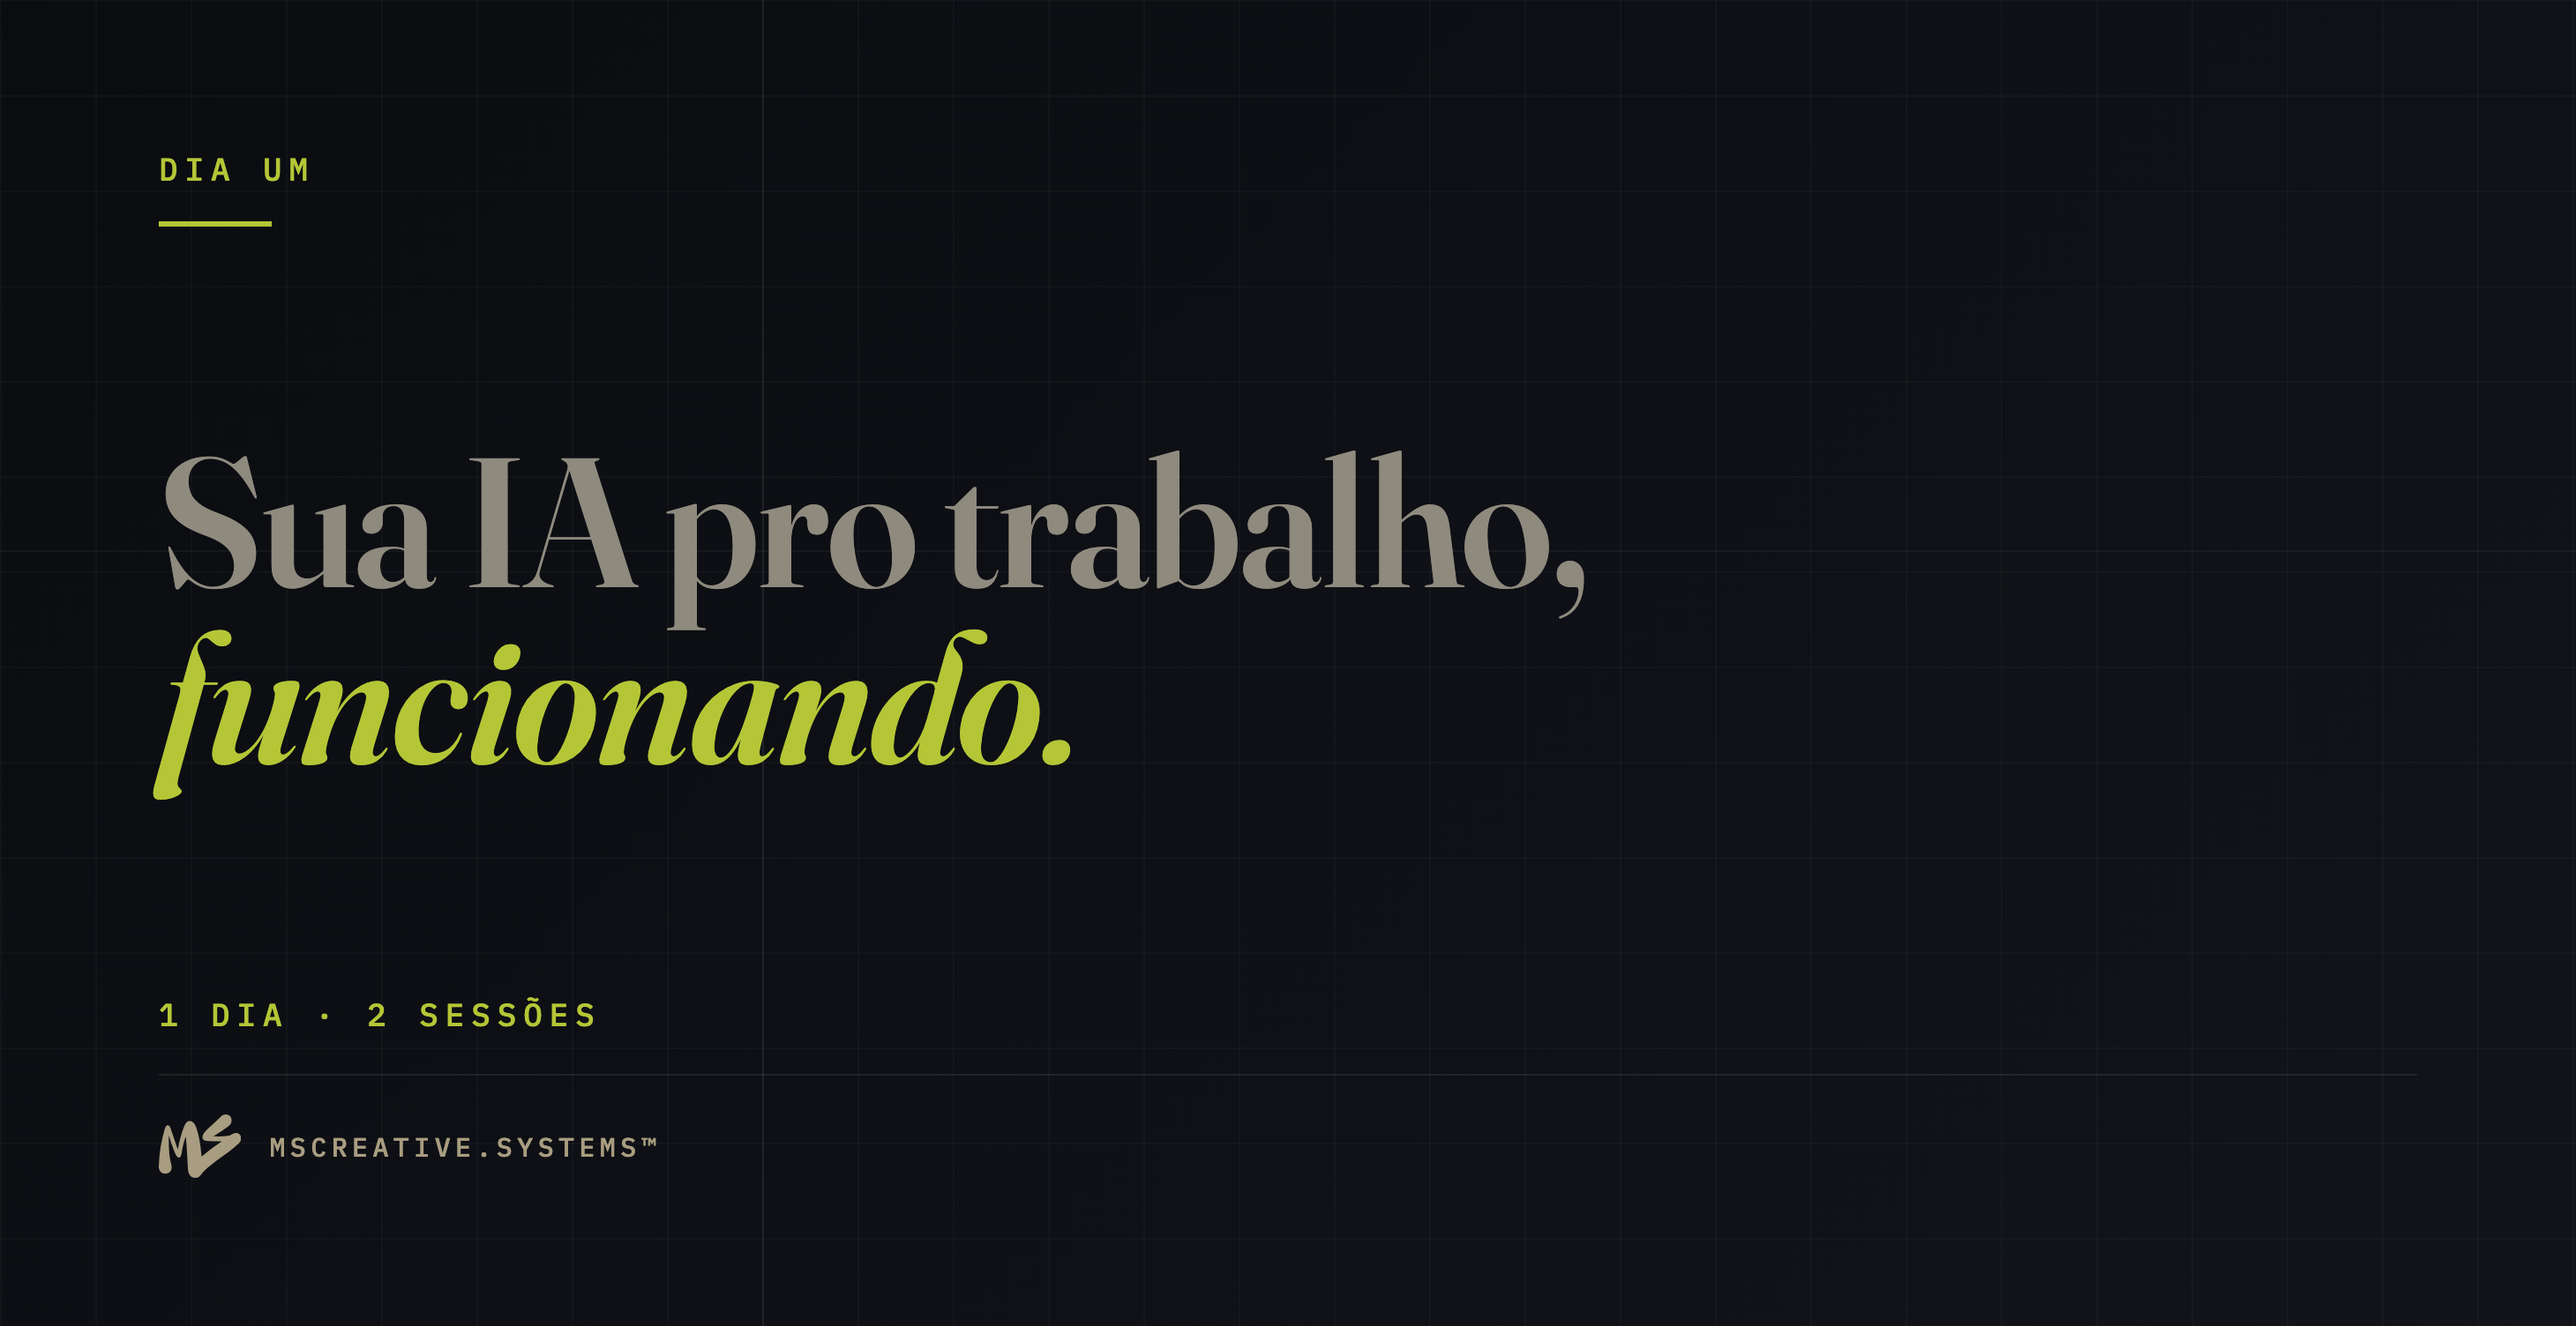
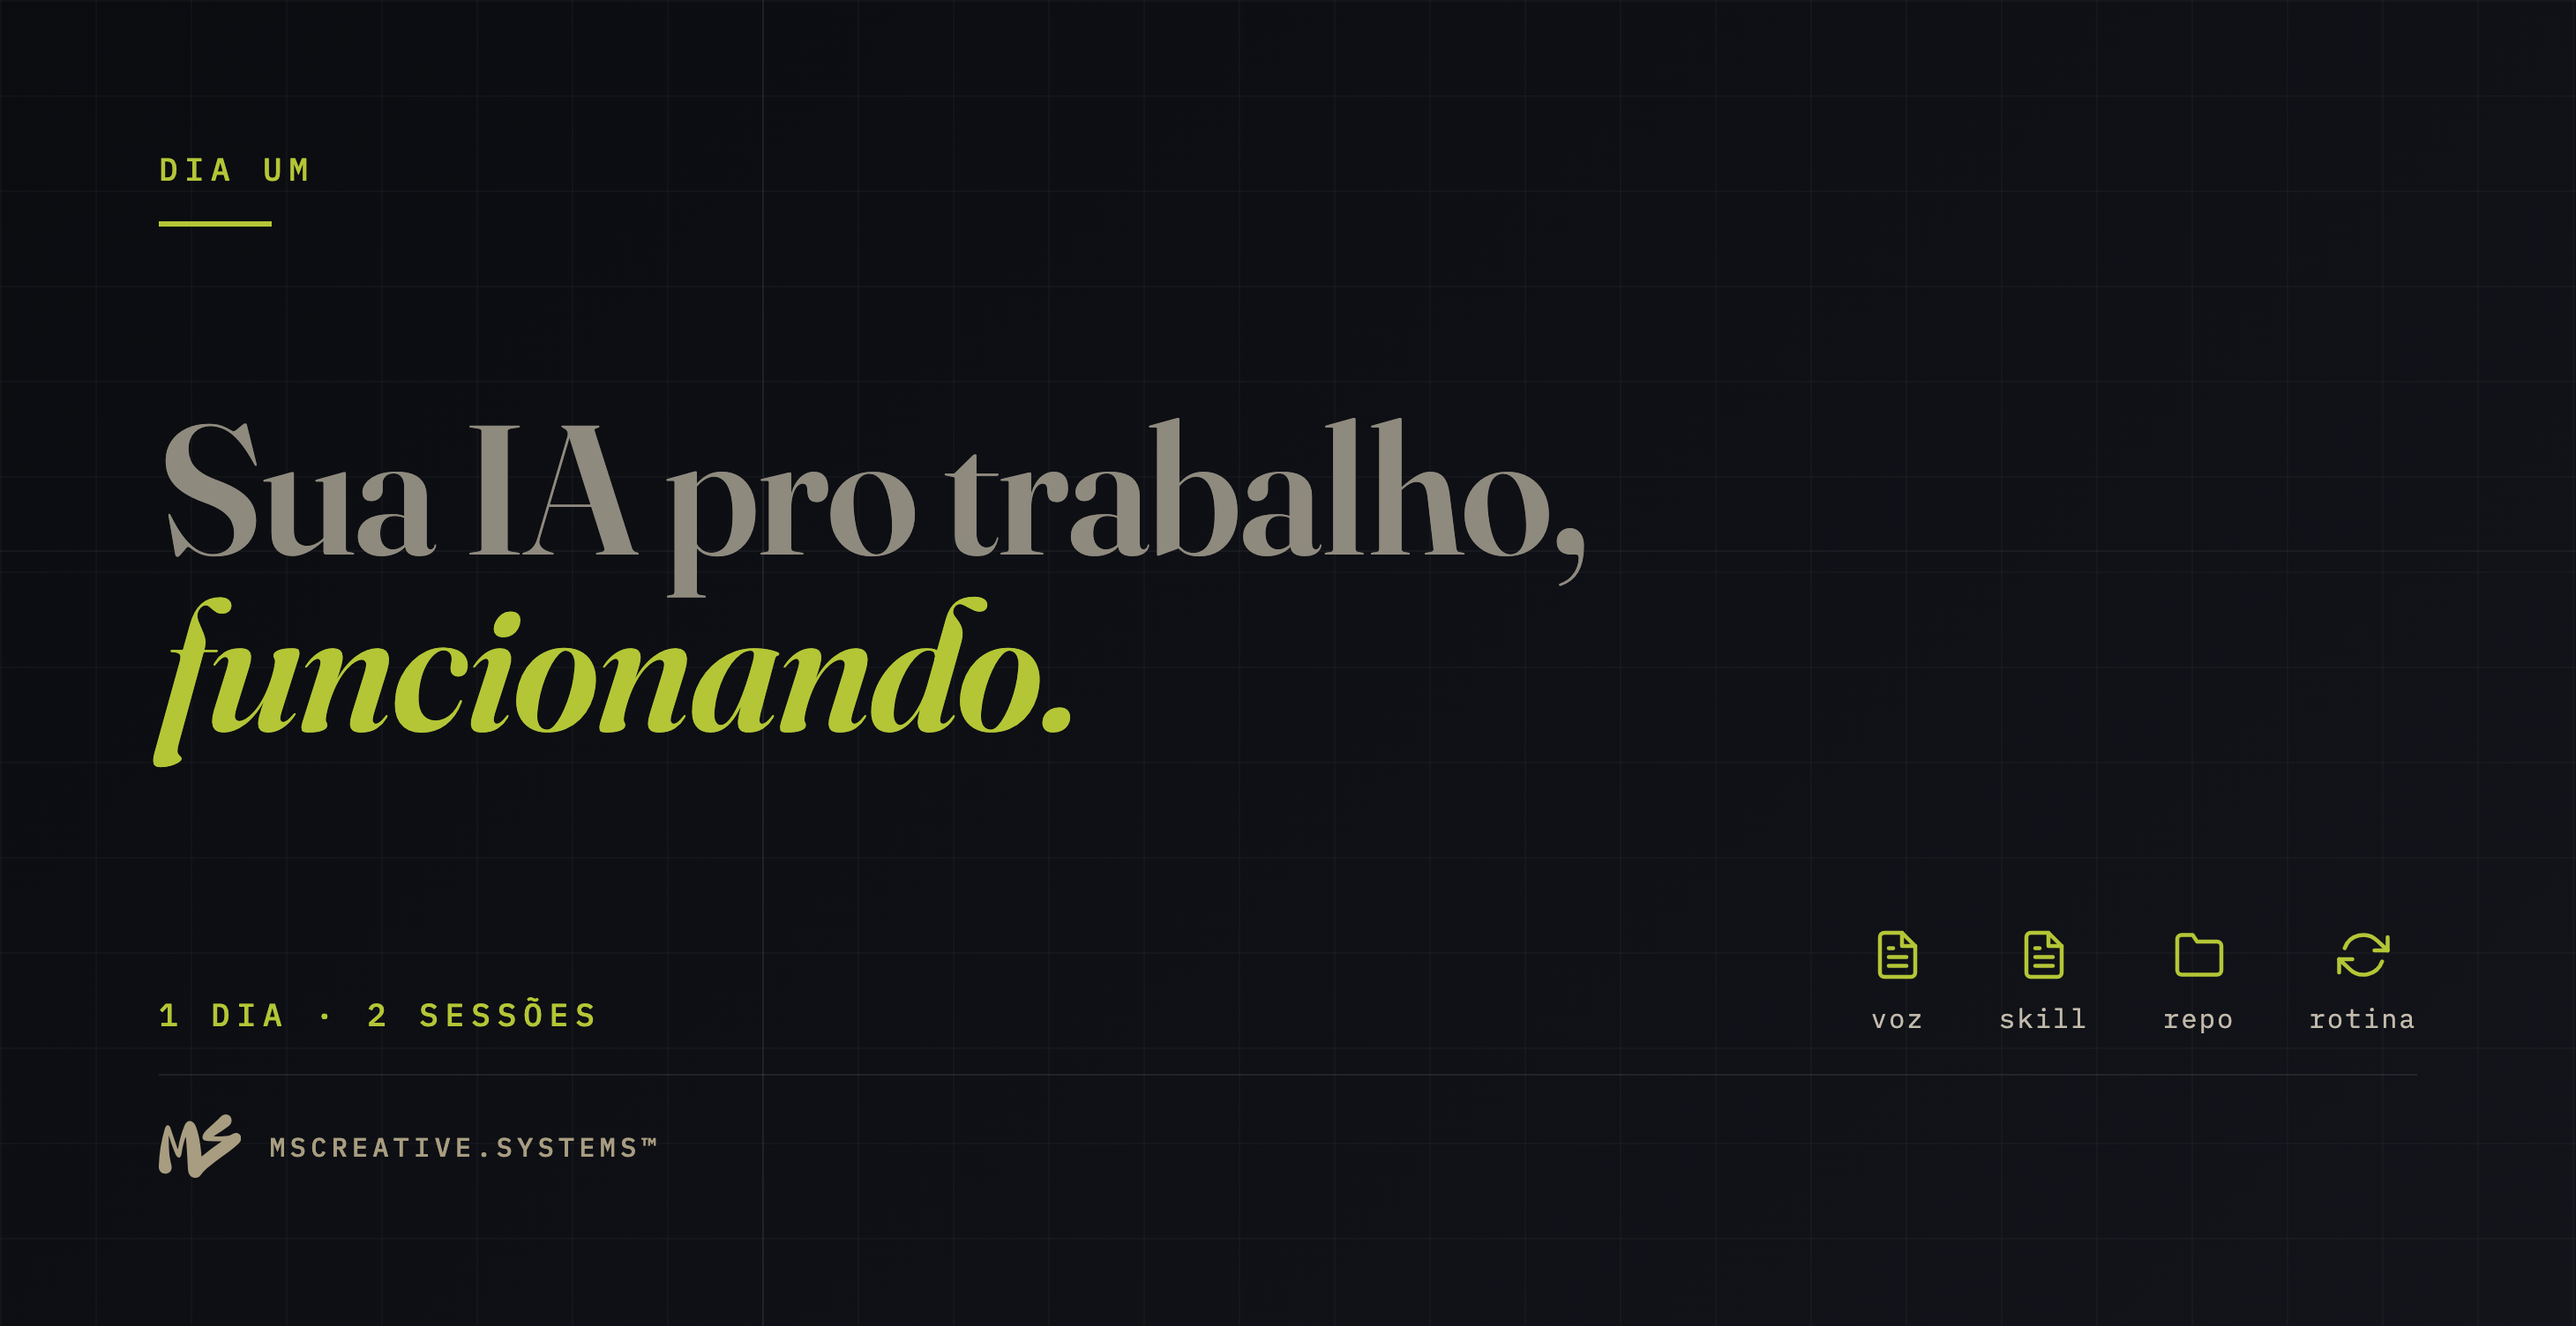
feat(dia-um): faixa voz/skill/repo/rotina (ícones de arquivo) nas capas de produto e grupo
- horizontal + vertical (produto) e skool-cover (grupo) ganham os 4 ícones SVG do crachá
- mesmo motivo: file/file/folder/refresh em lima + label mono
- PNGs re-renderizados em 2x (Chrome headless), dimensões originais preservadas

diff --git a/covers/horizontal.html b/covers/horizontal.html
@@ -43,6 +43,11 @@
   .headline em{color:#B4C636;font-style:italic;font-variation-settings:"opsz" 144,"wght" 600}
   .foot{display:flex;flex-direction:column;gap:22px}
   .label{color:#B4C636;font-weight:500;font-size:18px;letter-spacing:.22em;text-transform:uppercase}
+  .foot-row{display:flex;justify-content:space-between;align-items:flex-end;gap:40px}
+  .pieces{display:flex;gap:42px}
+  .piece{display:flex;flex-direction:column;align-items:center;gap:11px}
+  .piece svg{width:30px;height:30px;display:block}
+  .piece span{color:#C2BAAB;font-size:15px;letter-spacing:.08em}
   .hr{height:1px;background:rgba(255,255,255,.08);width:100%}
   .sign{display:flex;align-items:center;gap:16px}
   .ms-mark{height:36px;width:auto;display:block}
@@ -57,7 +62,15 @@
     </div>
     <h1 class="headline">Sua IA pro trabalho,<br><em>funcionando.</em></h1>
     <div class="foot">
-      <div class="label">1 Dia &middot; 2 Sessões</div>
+      <div class="foot-row">
+        <div class="label">1 Dia &middot; 2 Sessões</div>
+        <div class="pieces">
+          <div class="piece"><svg viewBox="0 0 24 24" fill="none" stroke="#B4C636" stroke-width="1.8" stroke-linecap="round" stroke-linejoin="round"><path d="M14 2H6a2 2 0 0 0-2 2v16a2 2 0 0 0 2 2h12a2 2 0 0 0 2-2V8z"/><path d="M14 2v6h6"/><path d="M16 13H8"/><path d="M16 17H8"/><path d="M10 9H8"/></svg><span>voz</span></div>
+          <div class="piece"><svg viewBox="0 0 24 24" fill="none" stroke="#B4C636" stroke-width="1.8" stroke-linecap="round" stroke-linejoin="round"><path d="M14 2H6a2 2 0 0 0-2 2v16a2 2 0 0 0 2 2h12a2 2 0 0 0 2-2V8z"/><path d="M14 2v6h6"/><path d="M16 13H8"/><path d="M16 17H8"/><path d="M10 9H8"/></svg><span>skill</span></div>
+          <div class="piece"><svg viewBox="0 0 24 24" fill="none" stroke="#B4C636" stroke-width="1.8" stroke-linecap="round" stroke-linejoin="round"><path d="M22 19a2 2 0 0 1-2 2H4a2 2 0 0 1-2-2V5a2 2 0 0 1 2-2h5l2 3h9a2 2 0 0 1 2 2z"/></svg><span>repo</span></div>
+          <div class="piece"><svg viewBox="0 0 24 24" fill="none" stroke="#B4C636" stroke-width="1.8" stroke-linecap="round" stroke-linejoin="round"><path d="M23 4v6h-6"/><path d="M1 20v-6h6"/><path d="M3.51 9a9 9 0 0 1 14.85-3.36L23 10"/><path d="M1 14l4.64 4.36A9 9 0 0 0 20.49 15"/></svg><span>rotina</span></div>
+        </div>
+      </div>
       <div class="hr"></div>
       <div class="sign"><svg class="ms-mark" xmlns="http://www.w3.org/2000/svg" viewBox="0 0 67.19667 51.75458"><path class="d" d="M8.15479,17.66986c-.10727,4.76875.03115,9.5285.41527,14.27922.25365,3.1651,1.03955,6.29608,1.74645,9.47888C12.17932,49.84272-.28837,51.03399.0051,42.2846c.35921-10.7694,2.02753-21.07894,5.00492-30.92856.43105-1.41773,1.65413-3.47677,3.2464-2.21435.53746.42306.92911.9969,1.17496,1.72154l5.78538,16.91602c.23584.68769.41046.67353.52387-.04254,1.02383-6.35386,2.74577-12.56867,5.16579-18.64433,2.42341-6.08573,7.57839-4.14271,9.40284.91599,2.77922,7.71993,3.71882,15.26481,4.54493,24.0988.01976.18583.11541.20673.28695.06271,5.16382-4.20649,10.48613-8.20113,15.96693-11.98388.2477-.17071.22158-.25977-.07835-.26709-3.61598-.09368-7.23981-.18066-10.87148-.26095-7.39821-.16475-4.36055-6.1619-1.09576-9.14847,3.1263-2.86316,6.25148-5.72857,9.37556-8.59623,1.40786-1.29146,2.61261-3.41267,5.0914-3.82386,5.89972-.9766,7.89921,6.29685,3.23346,9.68677-3.83797,2.79228-7.80539,5.39743-11.90226,7.81541-.15464.09367-.14189.15021.03827.16962,3.88277.43335,7.73249.3423,11.54916-.27318,2.22015-.35804,3.71273-2.03541,5.76647-2.29809,3.64903-.46082,6.04224,3.15361,4.51287,6.37544-.40245.85424-1.13742,1.76487-2.20492,2.73191-9.11467,8.26941-20.20634,14.6041-28.33323,22.56665-1.08504,1.06379-2.30373,3.42673-3.57933,4.09058-4.6234,2.39615-8.52986-.9142-8.76183-5.62878-.18359-3.7576-1.48526-26.94142-1.86815-26.88513-.09989.01549-.20829.14727-.27434.33352-1.46726,4.3048-2.51335,8.71175-3.13827,13.2209-.12499.90632-.43616,1.72773-.9335,2.46426-1.56103,2.29841-3.54903-.8048-4.06681-2.08179-2.07112-5.11908-3.79413-9.98508-5.16903-14.59797-.02544-.08589-.07445-.14821-.12558-.15976l-.05874-.0085c-.02576-.00602-.05156.01476-.05761.04636-.00077.00405-.00119.00814-.00126.01226l-.00003-.00003Z"/></svg><span class="wordmark">MSCREATIVE.SYSTEMS&trade;</span></div>
     </div>

diff --git a/covers/skool-cover.html b/covers/skool-cover.html
@@ -43,6 +43,11 @@
   .headline em{color:#B4C636;font-style:italic;font-variation-settings:"opsz" 144,"wght" 600}
   .foot{display:flex;flex-direction:column;gap:22px}
   .label{color:#B4C636;font-weight:500;font-size:18px;letter-spacing:.22em;text-transform:uppercase}
+  .foot-row{display:flex;justify-content:space-between;align-items:flex-end;gap:40px}
+  .pieces{display:flex;gap:42px}
+  .piece{display:flex;flex-direction:column;align-items:center;gap:11px}
+  .piece svg{width:30px;height:30px;display:block}
+  .piece span{color:#C2BAAB;font-size:15px;letter-spacing:.08em}
   .hr{height:1px;background:rgba(255,255,255,.08);width:100%}
   .sign{display:flex;align-items:center;gap:16px}
   .ms-mark{height:36px;width:auto;display:block}
@@ -57,7 +62,15 @@
     </div>
     <h1 class="headline">Sua IA pro trabalho,<br><em>funcionando.</em></h1>
     <div class="foot">
-      <div class="label">1 Dia &middot; 2 Sessões</div>
+      <div class="foot-row">
+        <div class="label">1 Dia &middot; 2 Sessões</div>
+        <div class="pieces">
+          <div class="piece"><svg viewBox="0 0 24 24" fill="none" stroke="#B4C636" stroke-width="1.8" stroke-linecap="round" stroke-linejoin="round"><path d="M14 2H6a2 2 0 0 0-2 2v16a2 2 0 0 0 2 2h12a2 2 0 0 0 2-2V8z"/><path d="M14 2v6h6"/><path d="M16 13H8"/><path d="M16 17H8"/><path d="M10 9H8"/></svg><span>voz</span></div>
+          <div class="piece"><svg viewBox="0 0 24 24" fill="none" stroke="#B4C636" stroke-width="1.8" stroke-linecap="round" stroke-linejoin="round"><path d="M14 2H6a2 2 0 0 0-2 2v16a2 2 0 0 0 2 2h12a2 2 0 0 0 2-2V8z"/><path d="M14 2v6h6"/><path d="M16 13H8"/><path d="M16 17H8"/><path d="M10 9H8"/></svg><span>skill</span></div>
+          <div class="piece"><svg viewBox="0 0 24 24" fill="none" stroke="#B4C636" stroke-width="1.8" stroke-linecap="round" stroke-linejoin="round"><path d="M22 19a2 2 0 0 1-2 2H4a2 2 0 0 1-2-2V5a2 2 0 0 1 2-2h5l2 3h9a2 2 0 0 1 2 2z"/></svg><span>repo</span></div>
+          <div class="piece"><svg viewBox="0 0 24 24" fill="none" stroke="#B4C636" stroke-width="1.8" stroke-linecap="round" stroke-linejoin="round"><path d="M23 4v6h-6"/><path d="M1 20v-6h6"/><path d="M3.51 9a9 9 0 0 1 14.85-3.36L23 10"/><path d="M1 14l4.64 4.36A9 9 0 0 0 20.49 15"/></svg><span>rotina</span></div>
+        </div>
+      </div>
       <div class="hr"></div>
       <div class="sign"><svg class="ms-mark" xmlns="http://www.w3.org/2000/svg" viewBox="0 0 67.19667 51.75458"><path class="d" d="M8.15479,17.66986c-.10727,4.76875.03115,9.5285.41527,14.27922.25365,3.1651,1.03955,6.29608,1.74645,9.47888C12.17932,49.84272-.28837,51.03399.0051,42.2846c.35921-10.7694,2.02753-21.07894,5.00492-30.92856.43105-1.41773,1.65413-3.47677,3.2464-2.21435.53746.42306.92911.9969,1.17496,1.72154l5.78538,16.91602c.23584.68769.41046.67353.52387-.04254,1.02383-6.35386,2.74577-12.56867,5.16579-18.64433,2.42341-6.08573,7.57839-4.14271,9.40284.91599,2.77922,7.71993,3.71882,15.26481,4.54493,24.0988.01976.18583.11541.20673.28695.06271,5.16382-4.20649,10.48613-8.20113,15.96693-11.98388.2477-.17071.22158-.25977-.07835-.26709-3.61598-.09368-7.23981-.18066-10.87148-.26095-7.39821-.16475-4.36055-6.1619-1.09576-9.14847,3.1263-2.86316,6.25148-5.72857,9.37556-8.59623,1.40786-1.29146,2.61261-3.41267,5.0914-3.82386,5.89972-.9766,7.89921,6.29685,3.23346,9.68677-3.83797,2.79228-7.80539,5.39743-11.90226,7.81541-.15464.09367-.14189.15021.03827.16962,3.88277.43335,7.73249.3423,11.54916-.27318,2.22015-.35804,3.71273-2.03541,5.76647-2.29809,3.64903-.46082,6.04224,3.15361,4.51287,6.37544-.40245.85424-1.13742,1.76487-2.20492,2.73191-9.11467,8.26941-20.20634,14.6041-28.33323,22.56665-1.08504,1.06379-2.30373,3.42673-3.57933,4.09058-4.6234,2.39615-8.52986-.9142-8.76183-5.62878-.18359-3.7576-1.48526-26.94142-1.86815-26.88513-.09989.01549-.20829.14727-.27434.33352-1.46726,4.3048-2.51335,8.71175-3.13827,13.2209-.12499.90632-.43616,1.72773-.9335,2.46426-1.56103,2.29841-3.54903-.8048-4.06681-2.08179-2.07112-5.11908-3.79413-9.98508-5.16903-14.59797-.02544-.08589-.07445-.14821-.12558-.15976l-.05874-.0085c-.02576-.00602-.05156.01476-.05761.04636-.00077.00405-.00119.00814-.00126.01226l-.00003-.00003Z"/></svg><span class="wordmark">MSCREATIVE.SYSTEMS&trade;</span></div>
     </div>

diff --git a/covers/vertical.html b/covers/vertical.html
@@ -37,6 +37,10 @@
   .headline em{color:#B4C636;font-style:italic;font-variation-settings:"opsz" 144,"wght" 600}
   .foot{display:flex;flex-direction:column;gap:16px}
   .label{color:#B4C636;font-weight:500;font-size:13px;letter-spacing:.2em;text-transform:uppercase}
+  .pieces{display:flex;gap:24px;margin-bottom:4px}
+  .piece{display:flex;flex-direction:column;align-items:center;gap:8px}
+  .piece svg{width:23px;height:23px;display:block}
+  .piece span{color:#C2BAAB;font-size:12px;letter-spacing:.05em}
   .hr{height:1px;background:rgba(255,255,255,.08);width:100%}
   .sign{display:flex;align-items:center;gap:12px}
   .ms-mark{height:28px;width:auto;display:block}
@@ -51,6 +55,12 @@
     </div>
     <h1 class="headline">Sua IA pro trabalho,<br><em>funcionando.</em></h1>
     <div class="foot">
+      <div class="pieces">
+        <div class="piece"><svg viewBox="0 0 24 24" fill="none" stroke="#B4C636" stroke-width="1.8" stroke-linecap="round" stroke-linejoin="round"><path d="M14 2H6a2 2 0 0 0-2 2v16a2 2 0 0 0 2 2h12a2 2 0 0 0 2-2V8z"/><path d="M14 2v6h6"/><path d="M16 13H8"/><path d="M16 17H8"/><path d="M10 9H8"/></svg><span>voz</span></div>
+        <div class="piece"><svg viewBox="0 0 24 24" fill="none" stroke="#B4C636" stroke-width="1.8" stroke-linecap="round" stroke-linejoin="round"><path d="M14 2H6a2 2 0 0 0-2 2v16a2 2 0 0 0 2 2h12a2 2 0 0 0 2-2V8z"/><path d="M14 2v6h6"/><path d="M16 13H8"/><path d="M16 17H8"/><path d="M10 9H8"/></svg><span>skill</span></div>
+        <div class="piece"><svg viewBox="0 0 24 24" fill="none" stroke="#B4C636" stroke-width="1.8" stroke-linecap="round" stroke-linejoin="round"><path d="M22 19a2 2 0 0 1-2 2H4a2 2 0 0 1-2-2V5a2 2 0 0 1 2-2h5l2 3h9a2 2 0 0 1 2 2z"/></svg><span>repo</span></div>
+        <div class="piece"><svg viewBox="0 0 24 24" fill="none" stroke="#B4C636" stroke-width="1.8" stroke-linecap="round" stroke-linejoin="round"><path d="M23 4v6h-6"/><path d="M1 20v-6h6"/><path d="M3.51 9a9 9 0 0 1 14.85-3.36L23 10"/><path d="M1 14l4.64 4.36A9 9 0 0 0 20.49 15"/></svg><span>rotina</span></div>
+      </div>
       <div class="label">1 Dia &middot; 2 Sessões</div>
       <div class="hr"></div>
       <div class="sign"><svg class="ms-mark" xmlns="http://www.w3.org/2000/svg" viewBox="0 0 67.19667 51.75458"><path class="d" d="M8.15479,17.66986c-.10727,4.76875.03115,9.5285.41527,14.27922.25365,3.1651,1.03955,6.29608,1.74645,9.47888C12.17932,49.84272-.28837,51.03399.0051,42.2846c.35921-10.7694,2.02753-21.07894,5.00492-30.92856.43105-1.41773,1.65413-3.47677,3.2464-2.21435.53746.42306.92911.9969,1.17496,1.72154l5.78538,16.91602c.23584.68769.41046.67353.52387-.04254,1.02383-6.35386,2.74577-12.56867,5.16579-18.64433,2.42341-6.08573,7.57839-4.14271,9.40284.91599,2.77922,7.71993,3.71882,15.26481,4.54493,24.0988.01976.18583.11541.20673.28695.06271,5.16382-4.20649,10.48613-8.20113,15.96693-11.98388.2477-.17071.22158-.25977-.07835-.26709-3.61598-.09368-7.23981-.18066-10.87148-.26095-7.39821-.16475-4.36055-6.1619-1.09576-9.14847,3.1263-2.86316,6.25148-5.72857,9.37556-8.59623,1.40786-1.29146,2.61261-3.41267,5.0914-3.82386,5.89972-.9766,7.89921,6.29685,3.23346,9.68677-3.83797,2.79228-7.80539,5.39743-11.90226,7.81541-.15464.09367-.14189.15021.03827.16962,3.88277.43335,7.73249.3423,11.54916-.27318,2.22015-.35804,3.71273-2.03541,5.76647-2.29809,3.64903-.46082,6.04224,3.15361,4.51287,6.37544-.40245.85424-1.13742,1.76487-2.20492,2.73191-9.11467,8.26941-20.20634,14.6041-28.33323,22.56665-1.08504,1.06379-2.30373,3.42673-3.57933,4.09058-4.6234,2.39615-8.52986-.9142-8.76183-5.62878-.18359-3.7576-1.48526-26.94142-1.86815-26.88513-.09989.01549-.20829.14727-.27434.33352-1.46726,4.3048-2.51335,8.71175-3.13827,13.2209-.12499.90632-.43616,1.72773-.9335,2.46426-1.56103,2.29841-3.54903-.8048-4.06681-2.08179-2.07112-5.11908-3.79413-9.98508-5.16903-14.59797-.02544-.08589-.07445-.14821-.12558-.15976l-.05874-.0085c-.02576-.00602-.05156.01476-.05761.04636-.00077.00405-.00119.00814-.00126.01226l-.00003-.00003Z"/></svg><span class="wordmark">MSCREATIVE.SYSTEMS&trade;</span></div>
